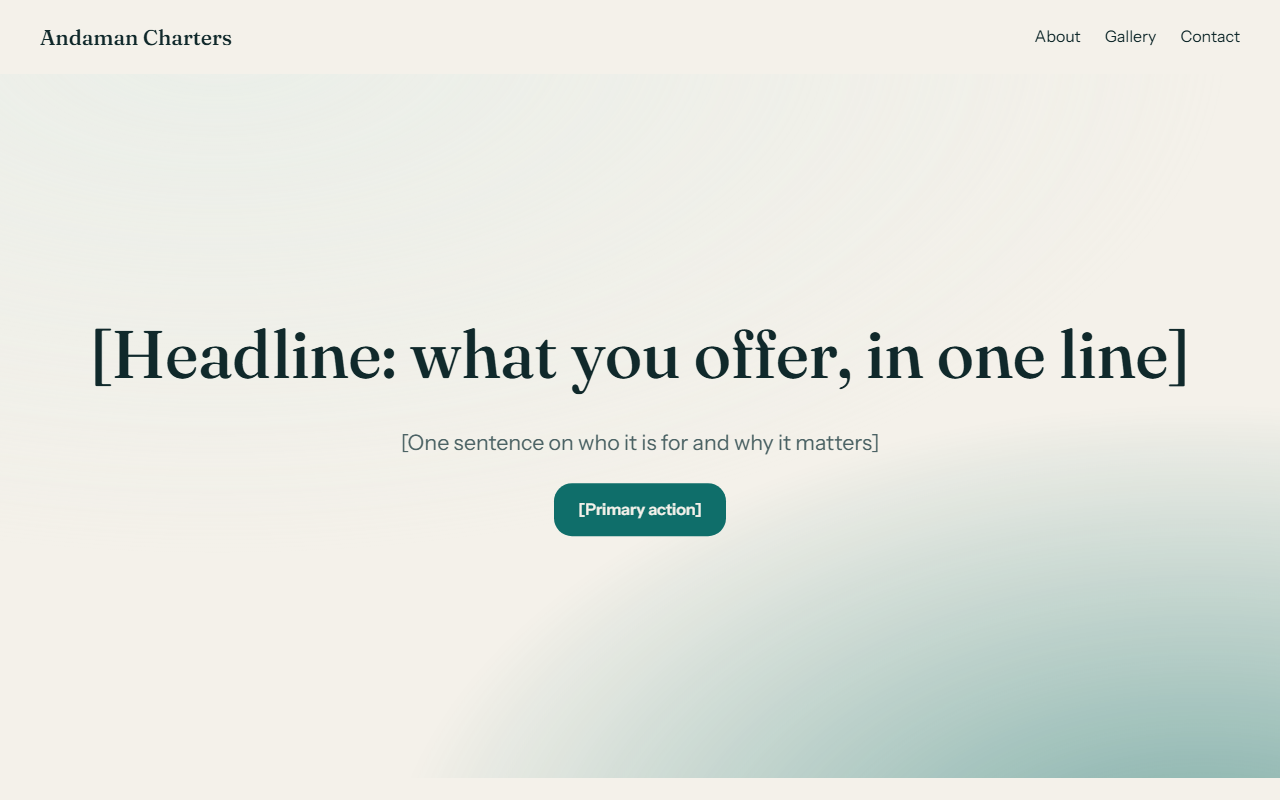
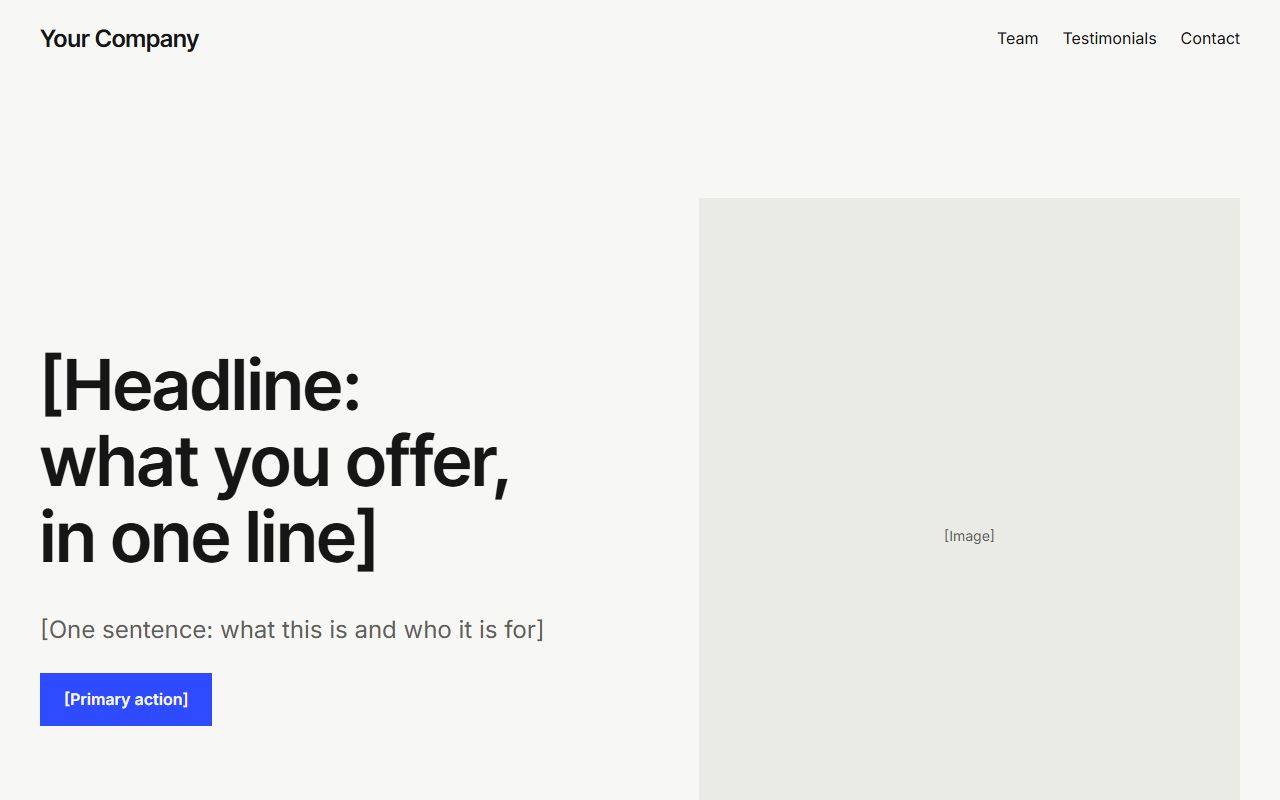
feat: optional area starting points in the wizard (#44)
- 15 areas (hotel, tourism, restaurant, AI/tech, software, service
  company, agency, shop, real estate, education, events, health,
  non-profit, portfolio, personal) plus 'Other / custom'
- Choosing an area pre-fills activity, objective, atmosphere, section
  checklist, schema.org type and [placeholder] headings; all editable,
  nothing stored as a category
- Generator applies area headings; functionality field shows an
  area-specific example
- Neutral sample ('Your Company') for npm run sample and the README
  screenshot instead of the boat-tour test project
- 18 new tests (135 total)

diff --git a/src/generator/areas.ts b/src/generator/areas.ts
@@ -1,0 +1,122 @@
+import type { Atmosphere, Goal, SectionType } from '../model/schema';
+
+/**
+ * Optional starting points by area of activity. Choosing one only PRE-FILLS
+ * the wizard (activity, objective, atmosphere, suggested sections, search
+ * engine type, placeholder headings); every value stays editable and nothing
+ * is stored as a category. "Other" keeps Dynaweb fully generic.
+ * Headings are always [placeholders]: they guide, they never state facts.
+ */
+export interface Area {
+  id: string;
+  label: string;
+  activity: string;
+  goal: Goal;
+  atmosphere: Atmosphere;
+  schemaType: string;
+  sections: SectionType[];
+  /** Placeholder headings for this area, by section type. */
+  headings: Partial<Record<SectionType, string>>;
+  /** Example of what such a site often needs, shown as a hint in the functionality field. */
+  featuresHint: string;
+}
+
+const base: SectionType[] = ['navigation', 'hero', 'about'];
+const end: SectionType[] = ['contact', 'footer'];
+
+export const AREAS: Area[] = [
+  {
+    id: 'hotel', label: 'Hotel or accommodation', activity: 'Hotel', goal: 'bookings', atmosphere: 'luxury', schemaType: 'Hotel',
+    sections: [...base, 'services', 'gallery', 'testimonials', 'pricing', 'cta', ...end],
+    headings: { services: '[Rooms and amenities]', gallery: '[The place]', pricing: '[Rates]', cta: '[Plan your stay]' },
+    featuresHint: 'Booking request form, room gallery, location map',
+  },
+  {
+    id: 'tourism', label: 'Tourism, tours and activities', activity: 'Tourism', goal: 'bookings', atmosphere: 'natural', schemaType: 'TouristTrip',
+    sections: [...base, 'services', 'gallery', 'testimonials', 'pricing', 'cta', ...end],
+    headings: { services: '[Experiences]', gallery: '[Moments]', pricing: '[Prices and departures]', cta: '[Book your experience]' },
+    featuresHint: 'Booking request form, horizontal photo story, itinerary',
+  },
+  {
+    id: 'restaurant', label: 'Restaurant, cafe or bar', activity: 'Restaurant', goal: 'bookings', atmosphere: 'editorial', schemaType: 'Restaurant',
+    sections: [...base, 'services', 'gallery', 'testimonials', 'cta', ...end],
+    headings: { services: '[Menu highlights]', gallery: '[The room and the kitchen]', cta: '[Reserve a table]' },
+    featuresHint: 'Table reservation request, menu, opening hours',
+  },
+  {
+    id: 'ai-tech', label: 'AI or technology business', activity: 'Technology', goal: 'leads', atmosphere: 'technical', schemaType: 'Organization',
+    sections: [...base, 'features', 'statistics', 'media', 'testimonials', 'pricing', 'cta', ...end],
+    headings: { features: '[What the product does]', statistics: '[Results in figures]', media: '[Product demo]', pricing: '[Plans]', cta: '[Book a demo]' },
+    featuresHint: 'Demo request form, product video, pricing plans',
+  },
+  {
+    id: 'saas', label: 'Software or SaaS product', activity: 'Software', goal: 'sales', atmosphere: 'modern', schemaType: 'SoftwareApplication',
+    sections: [...base, 'features', 'media', 'testimonials', 'pricing', 'cta', ...end],
+    headings: { features: '[Key features]', media: '[See it in action]', pricing: '[Pricing]', cta: '[Start now]' },
+    featuresHint: 'Sign-up call to action, feature tour, pricing table',
+  },
+  {
+    id: 'services', label: 'Service company', activity: 'Professional services', goal: 'leads', atmosphere: 'modern', schemaType: 'ProfessionalService',
+    sections: [...base, 'services', 'statistics', 'team', 'testimonials', 'cta', ...end],
+    headings: { services: '[Our services]', statistics: '[Key figures]', team: '[The team]', cta: '[Request a quote]' },
+    featuresHint: 'Quote request form, service list, team',
+  },
+  {
+    id: 'agency', label: 'Creative or marketing agency', activity: 'Agency', goal: 'leads', atmosphere: 'editorial', schemaType: 'Organization',
+    sections: [...base, 'services', 'gallery', 'team', 'testimonials', 'cta', ...end],
+    headings: { services: '[What we do]', gallery: '[Selected work]', team: '[The studio]', cta: '[Start a project]' },
+    featuresHint: 'Project inquiry form, case studies, showreel',
+  },
+  {
+    id: 'shop', label: 'Shop or e-commerce', activity: 'Shop', goal: 'sales', atmosphere: 'playful', schemaType: 'Store',
+    sections: [...base, 'showcase', 'testimonials', 'cta', ...end],
+    headings: { showcase: '[Products]', cta: '[Shop now]' },
+    featuresHint: 'Product catalogue, order or checkout link (payments need a service)',
+  },
+  {
+    id: 'real-estate', label: 'Real estate', activity: 'Real estate', goal: 'leads', atmosphere: 'luxury', schemaType: 'RealEstateAgent',
+    sections: [...base, 'showcase', 'gallery', 'team', 'testimonials', 'cta', ...end],
+    headings: { showcase: '[Properties]', gallery: '[Inside the properties]', team: '[Our agents]', cta: '[Arrange a visit]' },
+    featuresHint: 'Property listings, visit request form, map',
+  },
+  {
+    id: 'education', label: 'Education or training', activity: 'Education', goal: 'leads', atmosphere: 'modern', schemaType: 'EducationalOrganization',
+    sections: [...base, 'features', 'team', 'testimonials', 'pricing', 'cta', ...end],
+    headings: { features: '[Courses]', team: '[Teachers]', pricing: '[Fees]', cta: '[Enrol]' },
+    featuresHint: 'Course list, enrolment request form, schedule',
+  },
+  {
+    id: 'events', label: 'Event or festival', activity: 'Event', goal: 'bookings', atmosphere: 'playful', schemaType: 'Event',
+    sections: [...base, 'features', 'team', 'gallery', 'pricing', 'cta', ...end],
+    headings: { features: '[Programme]', team: '[Speakers or artists]', gallery: '[Previous editions]', pricing: '[Tickets]', cta: '[Get your ticket]' },
+    featuresHint: 'Programme, ticket link (sales need a service), venue map',
+  },
+  {
+    id: 'health', label: 'Health and wellness', activity: 'Health and wellness', goal: 'bookings', atmosphere: 'natural', schemaType: 'HealthAndBeautyBusiness',
+    sections: [...base, 'services', 'team', 'testimonials', 'pricing', 'cta', ...end],
+    headings: { services: '[Treatments]', team: '[Practitioners]', pricing: '[Prices]', cta: '[Book an appointment]' },
+    featuresHint: 'Appointment request form, services, practitioners',
+  },
+  {
+    id: 'nonprofit', label: 'Non-profit or community', activity: 'Non-profit', goal: 'community', atmosphere: 'natural', schemaType: 'NGO',
+    sections: [...base, 'text', 'statistics', 'team', 'cta', ...end],
+    headings: { text: '[Our mission]', statistics: '[Our impact]', team: '[Who we are]', cta: '[Join or donate]' },
+    featuresHint: 'Membership or volunteer form, donation link (payments need a service)',
+  },
+  {
+    id: 'portfolio', label: 'Portfolio or freelancer', activity: 'Freelancer', goal: 'portfolio', atmosphere: 'editorial', schemaType: 'Person',
+    sections: [...base, 'gallery', 'media', 'testimonials', ...end],
+    headings: { gallery: '[Selected work]', media: '[Showreel]' },
+    featuresHint: 'Project gallery, showreel, contact form',
+  },
+  {
+    id: 'personal', label: 'Personal site or blog', activity: 'Personal', goal: 'information', atmosphere: 'minimalist', schemaType: 'Person',
+    sections: [...base, 'text', 'gallery', 'footer'],
+    headings: { text: '[Latest writing]', gallery: '[Photos]' },
+    featuresHint: 'Articles, photos, newsletter sign-up (needs a service)',
+  },
+];
+
+export function getArea(id: string): Area | undefined {
+  return AREAS.find((a) => a.id === id);
+}

diff --git a/src/editor/CreateWizard.tsx b/src/editor/CreateWizard.tsx
@@ -6,6 +6,7 @@ import { createRandomIds } from '../model/ids';
 import { generateProject, planSections } from '../generator/generate';
 import { proposeDirections } from '../generator/direction';
 import { PRESETS } from '../generator/presets';
+import { AREAS, getArea } from '../generator/areas';
 import { SECTION_LABELS } from '../model/defaults';
 import { Select, TextInput } from './controls';
 
@@ -18,6 +19,8 @@ const label = (v: string) => v[0].toUpperCase() + v.slice(1);
  * owner describes the project in their own words and decides its structure.
  */
 export function CreateWizard({ onCreate, onCancel }: Props) {
+  const [areaId, setAreaId] = useState('');
+  const [schemaType, setSchemaType] = useState('');
   const [name, setName] = useState('');
   const [purpose, setPurpose] = useState('');
   const [description, setDescription] = useState('');
@@ -48,13 +51,27 @@ export function CreateWizard({ onCreate, onCancel }: Props) {
     purpose, description, activity, location, audience, goal, objective,
     language: langList[0] ?? 'en', languages: langList.length ? langList : ['en'],
     atmosphere, references, colors, typography, imagery, layout, motion: motionPrefs, features, technical, brief,
-    siteUrl: siteUrl.trim(), schemaType: '',
+    siteUrl: siteUrl.trim(), schemaType,
   };
   const suggested = planSections(meta);
   // Until the owner touches the checklist, it follows the suggestion; after that it is theirs.
   const structure = picked ?? new Set(suggested);
   const proposals = useMemo(() => proposeDirections(meta, name, 3), [atmosphere, goal, colors, imagery, location, activity, name]); // eslint-disable-line react-hooks/exhaustive-deps
   const chosen = presetId ?? proposals[0]?.presetId ?? PRESETS[0].presetId;
+
+  const area = getArea(areaId);
+
+  /** Pre-fills the brief from an area. Everything stays editable; "Other" clears back to generic. */
+  const chooseArea = (id: string) => {
+    setAreaId(id);
+    const a = getArea(id);
+    if (!a) { setSchemaType(''); setPicked(null); return; }
+    setActivity(a.activity);
+    setGoal(a.goal);
+    setAtmosphere(a.atmosphere);
+    setSchemaType(a.schemaType);
+    setPicked(new Set(a.sections));
+  };
 
   const toggle = (type: SectionType) => {
     const next = new Set(structure);
@@ -73,7 +90,7 @@ export function CreateWizard({ onCreate, onCancel }: Props) {
     }
     const sections = SECTION_TYPES.filter((t) => structure.has(t));
     if (sections.length === 0) { setError('Choose at least one section.'); return; }
-    onCreate(generateProject({ name: name.trim(), owner: 'local', meta: checked.data, presetId: chosen, motionIntensity: motion, sections }, createRandomIds(), new Date().toISOString()));
+    onCreate(generateProject({ name: name.trim(), owner: 'local', meta: checked.data, presetId: chosen, motionIntensity: motion, sections, headings: area?.headings }, createRandomIds(), new Date().toISOString()));
   };
 
   return (
@@ -82,6 +99,10 @@ export function CreateWizard({ onCreate, onCancel }: Props) {
       <p className="ed-hint">Any kind of website: a business, a portfolio, an event, a community, a product, a publication. Only the name is required; everything else helps.</p>
       <section>
         <h2>1. Project</h2>
+        <Select label="Area (optional starting point)" value={areaId}
+          options={[{ value: '', label: 'Other / custom: start from scratch' }, ...AREAS.map((a) => ({ value: a.id, label: a.label }))]}
+          onChange={chooseArea} />
+        {area && <p className="ed-hint">Pre-filled for {area.label.toLowerCase()}: objective, atmosphere, sections and headings. Change anything below.</p>}
         <div className="wz-grid">
           <TextInput label="Website name" value={name} onChange={setName} />
           <TextInput label="Activity or field (optional)" value={activity} onChange={setActivity} placeholder="Whatever describes it best" />
@@ -111,7 +132,7 @@ export function CreateWizard({ onCreate, onCancel }: Props) {
       <section>
         <h2>3. Functionality</h2>
         <TextInput label="What should the site do? (optional, in your words)" value={features} multiline onChange={setFeatures}
-          placeholder="e.g. a contact form, a searchable list, a video, a sign-up for updates" />
+          placeholder={area ? `e.g. ${area.featuresHint}` : 'e.g. a contact form, a searchable list, a video, a sign-up for updates'} />
         <TextInput label="Technical requirements (optional)" value={technical} multiline onChange={setTechnical}
           placeholder="e.g. hosting, integrations, framework preferences" />
         <p className="ed-hint">Dynaweb builds forms, galleries, video and animation today. Other requests are kept in the brief for the AI assistant and listed as needing an integration.</p>

diff --git a/tests/areas.test.ts b/tests/areas.test.ts
@@ -1,0 +1,54 @@
+import { describe, expect, it } from 'vitest';
+import { AREAS, getArea } from '../src/generator/areas';
+import { generateProject } from '../src/generator/generate';
+import { createSequentialIds } from '../src/model/ids';
+import { GOALS, ATMOSPHERES, SECTION_TYPES, validateProject } from '../src/model/schema';
+import { structuredData } from '../src/render/seo';
+import { NOW, sampleMeta } from './helpers';
+
+function projectFor(areaId: string) {
+  const area = getArea(areaId)!;
+  return generateProject({
+    name: 'Sample', owner: 't', presetId: 'quarry', motionIntensity: 1, sections: area.sections, headings: area.headings,
+    meta: sampleMeta({ activity: area.activity, goal: area.goal, atmosphere: area.atmosphere, schemaType: area.schemaType }),
+  }, createSequentialIds(), NOW);
+}
+
+describe('area starting points', () => {
+  it('cover the areas the owner asked for, and more', () => {
+    const ids = AREAS.map((a) => a.id);
+    for (const wanted of ['hotel', 'tourism', 'restaurant', 'ai-tech', 'services']) expect(ids).toContain(wanted);
+    expect(AREAS.length).toBeGreaterThanOrEqual(12);
+    expect(new Set(ids).size).toBe(ids.length);
+  });
+
+  it.each(AREAS.map((a) => [a.id]))('%s is a valid, honest starting point', (id) => {
+    const area = getArea(id)!;
+    expect(GOALS).toContain(area.goal);
+    expect(ATMOSPHERES).toContain(area.atmosphere);
+    expect(area.schemaType).toMatch(/^[A-Za-z]{1,60}$/);
+    area.sections.forEach((t) => expect(SECTION_TYPES).toContain(t));
+    // Headings guide but never state facts: every one is a [placeholder] for a section the area includes.
+    for (const [type, heading] of Object.entries(area.headings)) {
+      expect(heading).toMatch(/^\[.+\]$/);
+      expect(area.sections).toContain(type);
+    }
+    const p = projectFor(id);
+    expect(validateProject(p).ok).toBe(true);
+    expect(p.pages[0].sections.map((s) => s.type)).toEqual(area.sections);
+    expect(structuredData(p, p.pages[0])['@type']).toBe(area.schemaType);
+  });
+
+  it('puts the area headings on the generated sections', () => {
+    const hotel = projectFor('hotel');
+    expect(hotel.pages[0].sections.find((s) => s.type === 'services')?.content.heading).toBe('[Rooms and amenities]');
+    const ai = projectFor('ai-tech');
+    expect(ai.pages[0].sections.find((s) => s.type === 'media')?.content.heading).toBe('[Product demo]');
+  });
+
+  it('keeps "other" fully generic', () => {
+    expect(getArea('')).toBeUndefined();
+    const generic = generateProject({ name: 'X', owner: 't', presetId: 'quarry', motionIntensity: 1, meta: sampleMeta({ schemaType: '' }) }, createSequentialIds(), NOW);
+    expect(structuredData(generic, generic.pages[0])['@type']).toBe('Organization');
+  });
+});

diff --git a/src/generator/generate.ts b/src/generator/generate.ts
@@ -13,6 +13,8 @@ export interface GenerateInput {
   motionIntensity: 0 | 1 | 2;
   /** The owner's own structure. When given it replaces the planner's suggestion entirely. */
   sections?: SectionType[];
+  /** Placeholder headings from an optional area starting point, by section type. */
+  headings?: Partial<Record<SectionType, string>>;
 }
 
 /**
@@ -151,6 +153,8 @@ export function generateProject(input: GenerateInput, ids: IdGenerator, now: str
         section = withContent(section, { heading: name, body: meta.location ? `${meta.location}. ${ph('Contact details')}` : section.content.body });
         break;
     }
+    const areaHeading = input.headings?.[type];
+    if (areaHeading) section = withContent(section, { heading: areaHeading });
     const variant = PRESET_LAYOUTS[input.presetId]?.[type] ?? 'standard';
     return { ...section, style: { ...section.style, variant }, animations: animationsFor(type, meta, input.motionIntensity, ids) };
   });

diff --git a/README.md b/README.md
@@ -4,7 +4,7 @@
 
 Dynaweb is early (pre-1.0) and open to contributors. Everything marked *planned* below is not built yet.
 
-![A site generated by Dynaweb with the Lagoon preset: serif headline, placeholder copy in brackets, parallax gradient layer](docs/images/exported-site.png)
+![A neutral sample site generated by Dynaweb: "Your Company", service-company starting point, Quarry style, with placeholder copy in brackets](docs/images/exported-site.png)
 
 *A generated starting point. Text in [brackets] is a placeholder: Dynaweb never invents business facts.*
 
@@ -49,6 +49,7 @@ All three respect `prefers-reduced-motion`, keep content visible without JavaScr
 - **Creation wizard:** website name, business type, industry, audience, language, objective, a free-text brief, a choice of four original design presets, and animation intensity. Words in the brief such as *parallax*, *cinematic* or *horizontal gallery* switch on the matching animations.
 - **Visual editor:** section list with drag-and-drop reordering, duplicate and delete; a section library; a live canvas where you click a section to select it; desktop, tablet and mobile preview; zoom; undo and redo.
 - **Inspector:** content (headings, text, buttons, images, items), style (background, alignment, spacing, width, columns, per-device visibility), animation designers, and theme (presets, fonts, colours, radius, type scale, motion level).
+- **Area starting points (optional):** pick hotel, tourism, restaurant, AI or tech business, software, service company, agency, shop, real estate, education, events, health, non-profit, portfolio or personal site to pre-fill the objective, atmosphere, sections, search-engine type and placeholder headings. Everything stays editable; "Other" starts from scratch.
 - **Universal brief and art direction:** describe the project in your own words (purpose, optional activity, audience, objective, colours, typography, imagery, layout, motion, functionality). Dynaweb suggests a structure from your objective and words, never from an industry, and you tick exactly the sections you want. Three design proposals are ranked by atmosphere and your colour preferences.
 - **Building blocks:** 17 section types, including Text, Image or video (files, YouTube, Vimeo) and a free-form Custom section, each with layout variants.
 - **Layout variants:** every section type has several layouts (split, full-bleed or editorial hero, numbered or featured-first lists, masonry or filmstrip galleries, spotlight quotes...). Each preset composes pages differently, and you can switch any section's layout in the Style tab.

diff --git a/CHANGELOG.md b/CHANGELOG.md
@@ -6,6 +6,8 @@ All notable changes to this project are documented here. The format follows [Kee
 
 ### Added
 
+- Area starting points in the wizard (15 areas plus "Other"): pre-fill objective, atmosphere, sections, schema.org type and [placeholder] headings; fully editable, nothing stored as a category. Neutral README sample ("Your Company") replaces the boat-tour test project.
+
 - AI assistant (AI tab), no API key needed: Dynaweb writes a prompt for your own Claude chat and checks the pasted answer. Optionally, a server with an API key (claude-opus-5-5, structured output, server-side refusal fallback) can be used instead. Either way, Claude proposes Dynaweb commands that are parsed, shape-checked and applied to a copy of the project before you see them; rejected proposals show the reason; accepted ones apply as one undo step. Missing facts and needed integrations are listed, never invented. Runs server-side through the dev server; the API key is read from the server environment and never reaches the browser bundle.
 
 ### Changed
